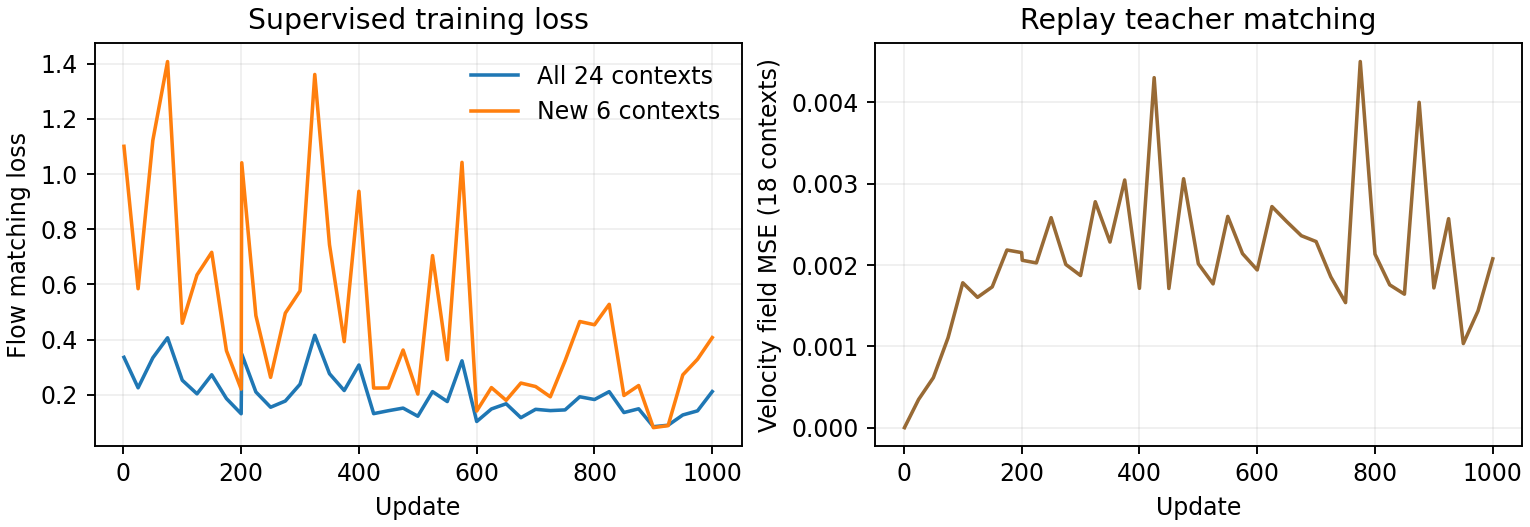
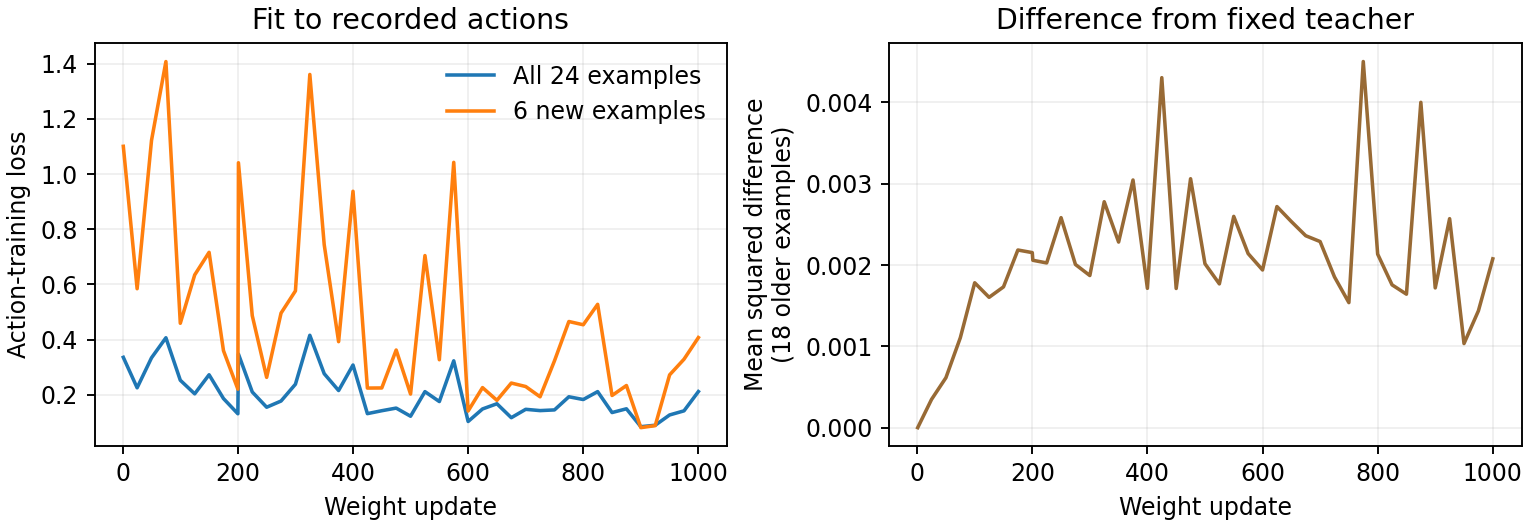
Explain training examples, loss charts and all seven layout checks

diff --git a/scripts/plot_training.py b/scripts/plot_training.py
@@ -5,8 +5,8 @@ import matplotlib.pyplot as plt
 p=argparse.ArgumentParser();p.add_argument('--csv',type=Path,required=True);p.add_argument('--out',type=Path,required=True);a=p.parse_args()
 rows=list(csv.DictReader(a.csv.open()));x=[int(v['step'])for v in rows]
 fig,axes=plt.subplots(1,2,figsize=(9,3.1),layout='constrained')
-for key,label in [('BC24','All 24 contexts'),('new6_BC','New 6 contexts')]:axes[0].plot(x,[float(v[key])for v in rows],label=label)
-axes[0].set_title('Supervised training loss');axes[0].set_ylabel('Flow matching loss');axes[0].legend(frameon=False)
-axes[1].plot(x,[float(v['KD_old18'])for v in rows],color='#986a35');axes[1].set_title('Replay teacher matching');axes[1].set_ylabel('Velocity field MSE (18 contexts)')
-for ax in axes:ax.set_xlabel('Update');ax.grid(alpha=.2)
+for key,label in [('BC24','All 24 examples'),('new6_BC','6 new examples')]:axes[0].plot(x,[float(v[key])for v in rows],label=label)
+axes[0].set_title('Fit to recorded actions');axes[0].set_ylabel('Action-training loss');axes[0].legend(frameon=False)
+axes[1].plot(x,[float(v['KD_old18'])for v in rows],color='#986a35');axes[1].set_title('Difference from fixed teacher');axes[1].set_ylabel('Mean squared difference\n(18 older examples)')
+for ax in axes:ax.set_xlabel('Weight update');ax.grid(alpha=.2)
 fig.savefig(a.out,dpi=170)

diff --git a/README.md b/README.md
@@ -16,20 +16,24 @@ I removed resets and the return-to-start motion, then mapped measured paths into
 
 | Component | What I trained |
 |---|---|
-| SmolVLA vision-language backbone | Frozen: 489 tensors |
-| Action expert and projections | Updated: 299 tensors |
-| Teacher | Frozen; used only during training |
-| Optional forward predictor | Frozen DINOv2 features, fitted PCA and ridge head |
+| Vision and language backbone | Kept fixed; reads images and the instruction |
+| Action expert and its input/output mappings | Trained; produces robot commands |
+| Teacher: a fixed copy of the starting policy | Training reference for older examples |
+| Optional forward predictor (small world model) | Fixed image encoder; fitted feature compression and linear prediction |
 
-The final stage uses **1,000 updates**, batch size 24 and learning rate 0.000001. Each batch has six new-data and eighteen replay contexts. I combine the official flow-matching loss with teacher velocity matching on replay. The [model history and data sources](docs/MODEL.md) explain initialization and earlier training.
+The final stage uses **1,000 weight updates**. Each update uses a batch of **24 training examples: six from the new library and eighteen from older data**. Reusing older examples is called replay. The learning rate, 0.000001, controls the size of weight changes.
+
+One example (called a “context” in the training code) contains two camera images, the robot state, the instruction and up to 50 following actions. **Six examples do not mean six videos**; several moments can come from one recording. I train the policy to follow the recorded actions and stay close to the fixed teacher on older examples. [Method and term explanations](docs/METHOD.md) · [Model history and data sources](docs/MODEL.md)
 
 ![Training losses](figures/training-loss.png)
 
-These are training losses on changing batches, not validation scores. Lower loss alone does not show better control.
+**Left:** action-training loss for all 24 examples (blue) and the six new examples alone (orange). Lower means a better fit to those sampled demonstrations. **Right:** average squared difference from the fixed teacher on the eighteen older examples. Zero means identical predictions on that batch; a rise means the policy is moving away from the teacher.
+
+The horizontal axis counts weight updates. These losses have no centimetre or percentage units. The batches change, so the curves fluctuate. They do not measure task success or prove that old skills are preserved; I check those with robot runs.
 
 ## Evaluation
 
-The policy sees two RGB views, the robot's eight state values and the same plate instruction in every layout. It receives no simulator object positions. I measure target-region arrival, actual obstacle contact, simulated time, total travelled path and contact breaks. Centre error and stopped drift are extra diagnostics.
+The policy sees two colour camera views (RGB), the robot's eight state values and the same plate instruction in every layout. It receives no simulator object positions. I measure target-region arrival, actual obstacle contact, simulated time, total travelled path and contact breaks. Centre error is the plate’s distance from the target centre. Stopped drift is its extra movement after a neutral hold command. Contact breaks count interruptions in robot–plate contact. These are extra diagnostics; the full success rule and units are in the [results](docs/RESULTS.md).
 
 The fixed final policy completes the familiar simple push, blocking obstacle and passage controls. Original-baseline comparisons use the same initial observations and geometry. New layout checks are reported separately, including failures.
 
@@ -55,9 +59,13 @@ The fixed final policy completes the familiar simple push, blocking obstacle and
 
 The GIFs play here; click for full MP4. Each side shows its own simulated time. After a recording ends, its last frame is held for display.
 
-Two additional layouts also succeed while their matched original baselines fail: a shifted passage (five-command pilot) and a diagonal passage (ten-command queue). [All layout results](docs/NEW-LAYOUTS.md), including failures, are kept separately.
+I also completed **seven layout checks**. The final policy succeeds at the shifted and diagonal passages, where the matched original baseline fails. The round obstacle gives near-arrival with contact; left start, forward-right start, shifted obstacle and the moved stove fail. The moved-stove case has no baseline run. [All seven results and videos](docs/NEW-LAYOUTS.md) are reported separately.
+
+Some extra tests execute five commands before looking at a new image; others execute ten. Each baseline–final pair uses the same setting. I keep these protocols separate rather than pooling their success rates.
 
 ![Measured plate paths](figures/primary-paths.png)
+
+These top-down paths follow the plate centre across recorded simulation steps. The axes are table coordinates in metres. Path length sums the travelled segments, including turns; it is not the straight-line start-to-finish distance.
 
 [Baseline versus final results](docs/RESULTS.md) · [New layouts and predictor tests](docs/NEW-LAYOUTS.md) · [All control metrics](results/metrics.csv)
 

diff --git a/docs/METHOD.md b/docs/METHOD.md
@@ -2,12 +2,29 @@
 
 The final model is a continuation of the previously successful post-trained policy. Personal recordings, simulation completions and earlier simulation sources are mixed; this is not a personal-data-only experiment. The original public model and both trained checkpoints are preserved locally with SHA-256 identities.
 
-The teacher is used only during training. For each sampled batch, the supervised loss covers 24 contexts and the velocity-matching loss covers the 18 replay contexts. Student and teacher receive identical flow time and noise. The coefficient is 1. Future 50-action chunks do not cross excluded label intervals.
+The teacher is used only during training. For each sampled batch, the supervised loss covers 24 training examples and the velocity-matching loss covers the 18 replay examples. Student and teacher receive identical flow time and noise. The coefficient is 1. Future 50-action chunks do not cross excluded label intervals.
 
 Four phone recordings were retained without modifying their original bytes. Hand and plate markers have 20 mm black sides, table markers 35 mm. The measured plate diameter is 180 mm. IDs: hand 10, plate 11, reset 12, stove anchor 13, obstacles 14/15. Marker 13 is an anchor; the target is in front of it. Calibration frames are separate from demonstrations. A fixed table mapping and measured scale are used; no individual take is rotated to improve its outcome.
 
-The horizontal passage uses a measured personal-video path and layout. The diagonal and vertical passage examples include disclosed simulation changes. Literal transfers of some obstacle paths failed and were excluded. Older right-obstacle examples have initial penetration; invalid commands and neighbouring contexts were masked. They are not whole-episode physics-clean demonstrations.
+The horizontal passage uses a measured personal-video path and layout. The diagonal and vertical passage examples include disclosed simulation changes. Literal transfers of some obstacle paths failed and were excluded. Older right-obstacle examples have initial penetration; invalid commands and neighbouring training examples were masked. They are not whole-episode physics-clean demonstrations.
 
 The forward predictor was fitted separately on 51 training episodes and four validation episodes, split by episode. It predicts 64 visual deltas, eight robot-state deltas and one goal-distance change five commands ahead. DINOv2 remains frozen. There are no bottle-pushing training episodes. Progress labels use simulator measurements during fitting only. A separate contact-risk attempt did not produce a reliable task improvement and was not adopted.
 
-The loss graph is training loss on changing batches, not a validation curve. Lower loss does not establish better rollout success. See the complete machine-readable results for all four paired control outcomes.
+The loss graph is training loss on changing batches, not a validation curve. Lower loss does not establish better rollout success. See the [main paired results](RESULTS.md) and [layout variations](NEW-LAYOUTS.md) for the robot outcomes.
+
+## Training and model terms
+
+| Term | Meaning here |
+|---|---|
+| Training example / context | Two current images, robot state and instruction, paired with up to 50 future robot actions. It is one sampled moment, not a whole video. |
+| Batch / update | A batch holds 24 examples. One update changes the trainable weights using that batch. The 1,000 updates repeatedly sample the available data. |
+| Frozen | Weights are kept unchanged. Only the action-producing part is updated. |
+| Tensor | A numerical array of model weights. The 489 frozen and 299 updated tensors are array counts, not layer or individual parameter counts. |
+| Flow matching | SmolVLA's action-training method: it learns how to turn a noisy action sequence into a demonstrated action sequence. The left graph measures errors in this training prediction. |
+| Teacher matching | On older examples, the trained policy also matches the fixed teacher's flow predictions using the same noise and flow time. This is a training penalty, not a controller added to the robot. |
+| MSE | Mean squared error: squared prediction differences averaged over valid entries. Zero means a match; there is no universal threshold that proves skill retention. |
+| DINOv2 | A pretrained image encoder that converts pixels to numerical visual features. Its weights stay fixed here. |
+| PCA / ridge head | PCA compresses visual features to 64 numbers. A fitted linear ridge predictor uses these features, robot state and proposed actions to predict changes five commands ahead. |
+| Action proposal / chunk | A sequence of robot commands proposed by the VLA. The optional predictor compares four proposals and selects one using predicted goal progress. |
+
+The predictor outputs changes in 64 visual features, eight robot-state values and one goal-distance estimate. It does not output a reliable collision yes/no label. Its fitting uses simulator progress labels; during robot inference it receives images, robot state and proposed actions. The final predictor trials did not demonstrate an extra success gain.

diff --git a/docs/RESULTS.md b/docs/RESULTS.md
@@ -19,3 +19,16 @@ A failed baseline uses the full 22.5-second observation horizon. A successful po
 Functional success uses native goal or the fixed 50 mm near-arrival criterion during all holds, with passage completion and no added-obstacle contact. Native goal is reported separately. The tolerance is a project criterion, not an official LIBERO score. Gripper travel sums consecutive measured 3D displacements; plate travel sums consecutive XY displacements. Contact samples are physics-substep pairs, not separate impacts. Efficiency is compared only where both methods succeed.
 
 The recorded horizontal passage remains a failure: [final video](../media/final-horizontal-passage.mp4). Reduced obstacle contact alone does not complete the task. The baseline comparison measures the full post-trained pipeline; it does not isolate the causal effect of personal footage alone.
+
+## Reading the measurements
+
+| Measurement | Meaning |
+|---|---|
+| Goal error (mm) | Distance between the plate centre and the target centre. It is useful for comparison but does not decide success alone. |
+| Simulated time (s) | Time advanced by the simulator, not real computer runtime or video playback time. |
+| Plate / gripper travel (cm) | Sum of consecutive measured movements, including turns. Plate travel uses the table plane; gripper travel uses three dimensions. |
+| Obstacle contact samples | Physics steps with a plate–obstacle or robot–obstacle contact. Several samples can belong to one sustained touch. |
+| Contact breaks | Losses of robot–plate contact during the attempt. They help identify a missed push or recovery. |
+| Stopped drift (mm) | Additional plate movement during the final neutral hold. It is a diagnostic, not a separate failure threshold here. |
+
+The top-down plots show measured plate paths on the table in metres. The goal-error plots show centre distance over simulated seconds. A curve getting lower means the plate moves closer to the target; actual arrival and collision checks still determine the task result. Runs with different stopping times have different curve lengths.
